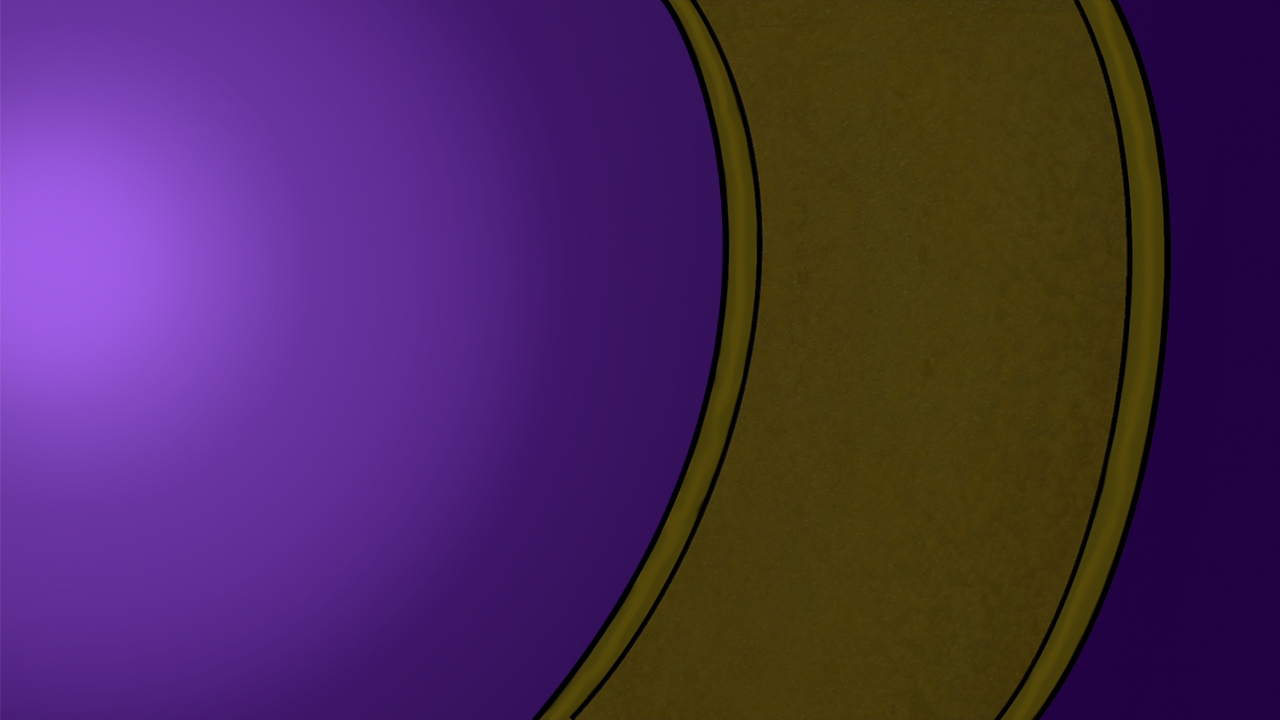
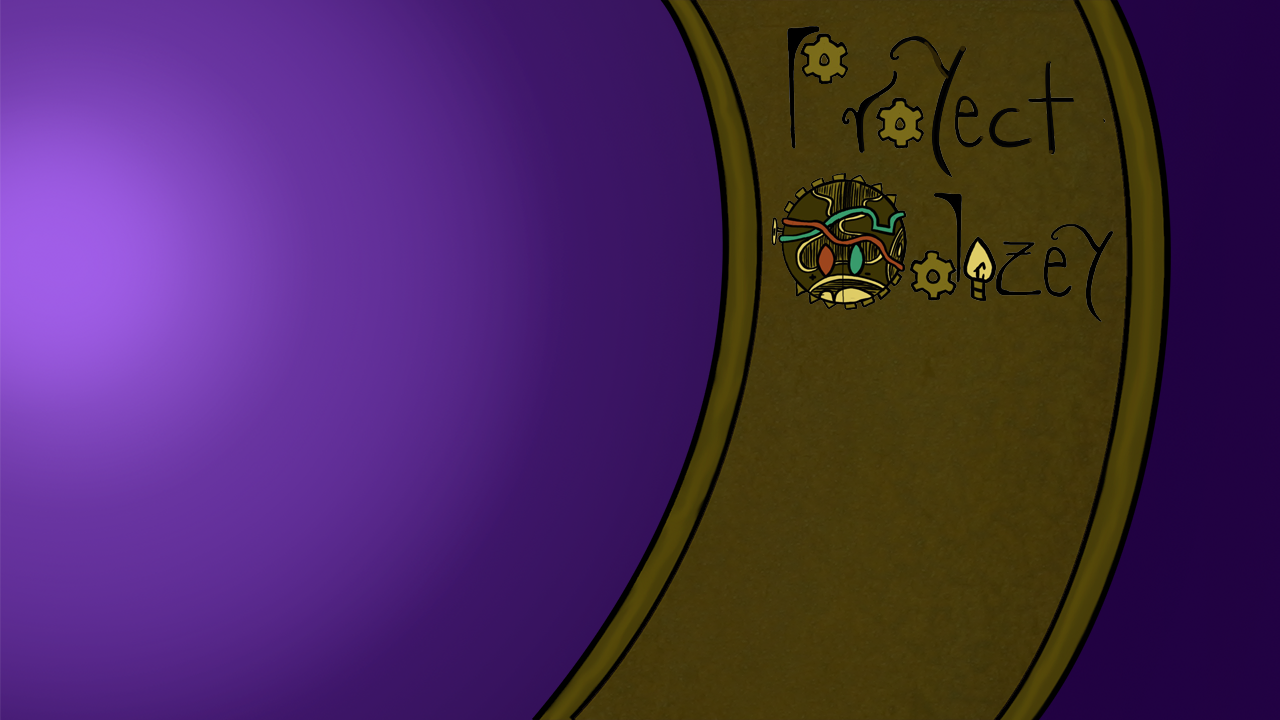
Finalizar Menus

Changed region(s): [[0.5938, 0.0611, 0.875, 0.4278], [0.5938, 0.0306, 0.6875, 0.1833], [0.6875, 0.0306, 0.7188, 0.0611]]

diff --git a/core/src/mx/itesm/fjzt/PantallaMenu.java b/core/src/mx/itesm/fjzt/PantallaMenu.java
@@ -53,6 +53,7 @@ public class PantallaMenu implements Screen {
     private Texture textureManecilla;
 
 
+
     public PantallaMenu(JuegoDemo juego) {
         this.juego = juego;
     }
@@ -85,6 +86,7 @@ public class PantallaMenu implements Screen {
         textureManecilla = new Texture("Manecilla.png");
         spriteManecilla = new Sprite(textureManecilla);
 
+
         //Menú
         crearMenu();
         //Pasamos el control de INPUT a la escena
@@ -102,7 +104,7 @@ public class PantallaMenu implements Screen {
         TextureRegionDrawable trdBtnPlayP = new TextureRegionDrawable(new TextureRegion(textBtnPlayP));
 
         ImageButton btnPlay = new ImageButton(trdBtnPlay,trdBtnPlayP);
-        btnPlay.setPosition(800,550);
+        btnPlay.setPosition(790,280);
         escenaMenu.addActor(btnPlay);
         //Agregar el LISTENER
         btnPlay.addListener(new ClickListener(){
@@ -122,7 +124,7 @@ public class PantallaMenu implements Screen {
         TextureRegionDrawable trdBtnAjustedsS = new TextureRegionDrawable(new TextureRegion(textBtnAjustesS));
 
         ImageButton btnHelp = new ImageButton(trdBtnAjustes, trdBtnAjustedsS);
-        btnHelp.setPosition(830,400);
+        btnHelp.setPosition(760,195);
         // CARGAR LA PANTALLA DE MAPAS
         btnHelp.addListener(new ClickListener() {
             @Override
@@ -142,7 +144,7 @@ public class PantallaMenu implements Screen {
         TextureRegionDrawable trdBtnAyudaA = new TextureRegionDrawable(new TextureRegion(textBtnAyuda));
 
         ImageButton btnAyuda = new ImageButton(trdBtnAyuda, trdBtnAyudaA);
-        btnAyuda.setPosition(793,250);
+        btnAyuda.setPosition(730,110);
         // CARGAR LA PANTALLA DE MAPAS
         btnAyuda.addListener(new ClickListener() {
             @Override
@@ -162,7 +164,7 @@ public class PantallaMenu implements Screen {
         TextureRegionDrawable trdBtnDontEnterR = new TextureRegionDrawable(new TextureRegion(textBtnDontEnterR));
 
         ImageButton btnDontEnter = new ImageButton(trdBtnDontEnter, trdBtnDontEnterR);
-        btnDontEnter.setPosition(744,105);
+        btnDontEnter.setPosition(700,25);
         // CARGAR LA PANTALLA DE MAPAS
         btnDontEnter.addListener(new ClickListener() {
             @Override
@@ -210,6 +212,7 @@ public class PantallaMenu implements Screen {
         spriteManecilla.setY(456 - spriteManecilla.getHeight()/2);
         spriteManecilla.rotate(0.65f);
         spriteManecilla.draw(batch);
+
         batch.end();
 
         escenaMenu.draw();
